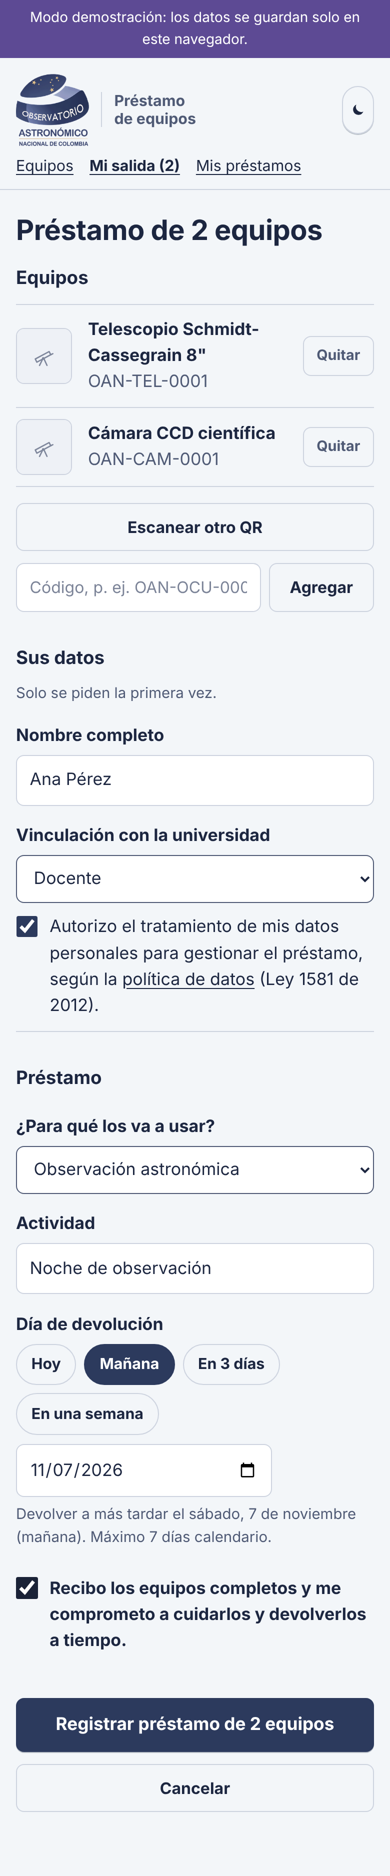
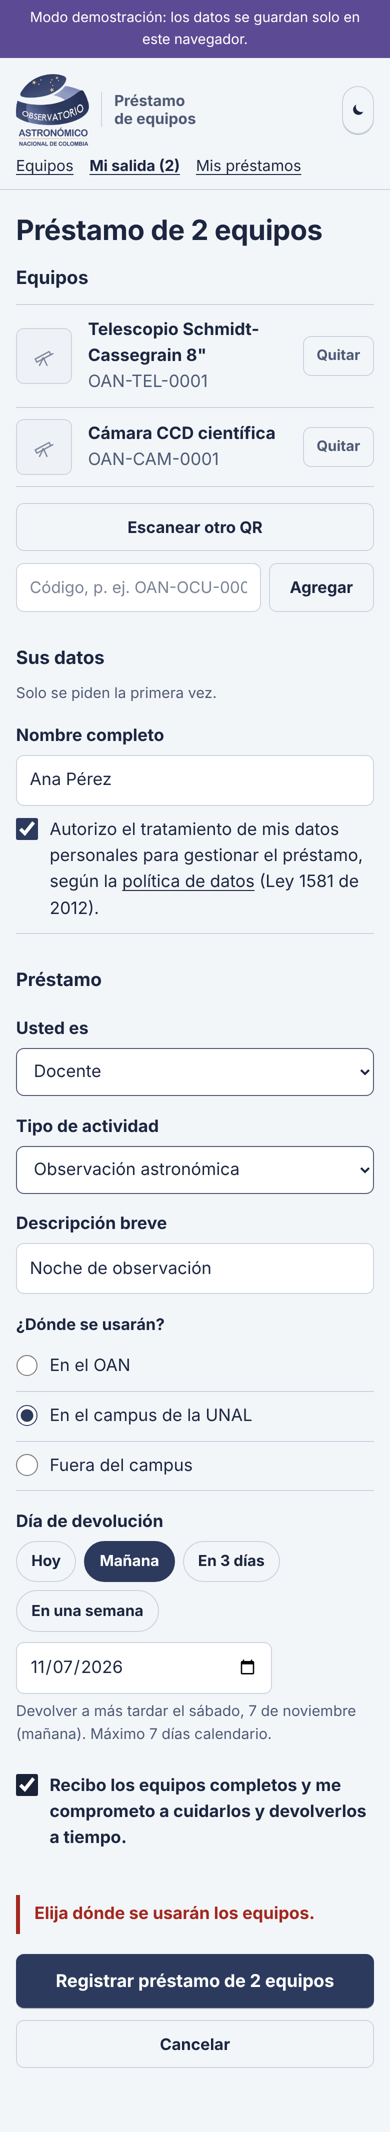
Registrar en cada préstamo la vinculación, el tipo de actividad y el lugar de uso
- Formulario: «Usted es» (vinculación, prellenada con la anterior), «Tipo de
  actividad», descripción breve y «¿Dónde se usarán?» (en el OAN, en el
  campus de la UNAL o fuera del campus), todos obligatorios y sin aprobación
- Los tres datos se guardan en Prestamos y van en el aviso al laboratorio,
  el comprobante, la ficha y el panel
- Pruebas, documentación, esquema y capturas actualizados

Claude-Session: https://claude.ai/code/session_0186gtBQ3T989Q7srTsCQHoa

diff --git a/web/js/app.js b/web/js/app.js
@@ -324,8 +324,9 @@ async function vistaEquipo(id) {
 
 function datosSolicitante(p) {
   return `<dl class="ficha solicitante">
-    <div><dt>Responsable</dt><dd>${esc(p.nombre)}<br><a href="mailto:${esc(p.email)}">${esc(p.email)}</a></dd></div>
-    <div><dt>Para qué</dt><dd>${esc(p.proposito)}<br><span class="tenue">${esc(p.descripcion)}</span></dd></div>
+    <div><dt>Responsable</dt><dd>${esc(p.nombre)}${p.tipo_usuario ? ` · ${esc(p.tipo_usuario)}` : ''}<br><a href="mailto:${esc(p.email)}">${esc(p.email)}</a></dd></div>
+    <div><dt>Actividad</dt><dd>${esc(p.proposito)}<br><span class="tenue">${esc(p.descripcion)}</span></dd></div>
+    ${p.lugar_uso ? `<div><dt>Dónde</dt><dd>${esc(p.lugar_uso)}</dd></div>` : ''}
     ${p.avalista_email ? `<div><dt>Avalista</dt><dd>${esc(p.avalista_email)}</dd></div>` : ''}
     <div><dt>Plazo</dt><dd>Salió el ${fecha(p.fecha_salida)}<br>Devolver a más tardar el ${dia(p.fecha_prevista)}</dd></div>
   </dl>`;
@@ -388,10 +389,6 @@ function vistaSalida() {
       <p class="ayuda">Solo se piden la primera vez.</p>
       <label for="nombre">Nombre completo</label>
       <input id="nombre" name="nombre" autocomplete="name" required>
-      ${externo
-        ? '<input type="hidden" name="tipo" value="Externo">'
-        : `<label for="tipo">Vinculación con la universidad</label>
-           <select id="tipo" name="tipo" required><option value="">Seleccione…</option>${opciones(catalogos.tipos_usuario.filter(t => t !== 'Externo'))}</select>`}
       <label class="casilla"><input type="checkbox" name="acepta_datos" required>
         <span>Autorizo el tratamiento de mis datos personales para gestionar el préstamo, según la <a href="${esc(CONFIG.URL_POLITICA_DATOS)}" target="_blank" rel="noopener">política de datos</a> (Ley 1581 de 2012).</span></label>
     </fieldset>`;
@@ -421,10 +418,16 @@ function vistaSalida() {
       ${perfil}
       <fieldset>
         <legend>Préstamo</legend>
-        <label for="proposito">¿Para qué ${varios ? 'los' : 'lo'} va a usar?</label>
+        ${externo ? '' : `<label for="tipo-usuario">Usted es</label>
+        <select id="tipo-usuario" name="tipo_usuario" required><option value="">Seleccione…</option>${opciones(catalogos.tipos_usuario.filter(t => t !== 'Externo'), u.tipo)}</select>`}
+        <label for="proposito">Tipo de actividad</label>
         <select id="proposito" name="proposito" required><option value="">Seleccione…</option>${opciones(catalogos.propositos)}</select>
-        <label for="descripcion">Actividad</label>
+        <label for="descripcion">Descripción breve</label>
         <input id="descripcion" name="descripcion" maxlength="300" placeholder="Ej.: observación pública de la Luna" required>
+        <fieldset class="grupo-opciones">
+          <legend>¿Dónde ${varios ? 'se usarán' : 'se usará'}?</legend>
+          ${(catalogos.lugares || []).map((l, i) => `<label class="casilla"><input type="radio" name="lugar_uso" value="${esc(l)}" required><span>${esc(l)}</span></label>`).join('')}
+        </fieldset>
         <label for="devolucion">Día de devolución</label>
         <div class="atajos" role="group" aria-label="Elegir rápido el día de devolución">
           ${atajos.map(([t, n]) => `<button type="button" class="chip" data-dias="${n}">${t}</button>`).join('')}
@@ -492,10 +495,11 @@ function vistaSalida() {
   form.addEventListener('submit', ev => {
     ev.preventDefault();
     if (form.nombre && form.nombre.value.trim().length < 3) return aviso(form, 'Escriba su nombre completo.');
-    if (form.tipo && !form.tipo.value) return aviso(form, 'Seleccione su vinculación con la universidad.');
+    if (form.tipo_usuario && !form.tipo_usuario.value) return aviso(form, 'Seleccione su vinculación con la universidad.');
     if (form.acepta_datos && !form.acepta_datos.checked) return aviso(form, 'Debe autorizar el tratamiento de datos para registrar el préstamo.');
     if (!form.proposito.value) return aviso(form, 'Seleccione para qué va a usar los equipos.');
     if (form.descripcion.value.trim().length < 3) return aviso(form, 'Escriba en pocas palabras la actividad.');
+    if (!form.lugar_uso.value) return aviso(form, 'Elija dónde se usarán los equipos.');
     const v = form.fecha_devolucion.value;
     if (!v || v < hoy || v > maximo) return aviso(form, `Elija un día de devolución entre hoy y el ${dia(finDelDia(maximo))}.`);
     if (!form.compromiso.checked) return aviso(form, 'Marque la casilla de compromiso para continuar.');
@@ -503,16 +507,19 @@ function vistaSalida() {
       equipos: equipos.map(e => e.id),
       proposito: form.proposito.value,
       descripcion: form.descripcion.value,
+      lugar_uso: form.lugar_uso.value,
+      tipo_usuario: externo ? 'Externo' : form.tipo_usuario.value,
       fecha_devolucion: v,
       fecha_prevista: finDelDia(v).toISOString(),
       avalista_email: form.avalista_email?.value || ''
     };
-    if (form.nombre) datos.perfil = { nombre: form.nombre.value, tipo: form.tipo.value, acepta_datos: form.acepta_datos.checked };
+    if (form.nombre) datos.perfil = { nombre: form.nombre.value, tipo: datos.tipo_usuario, acepta_datos: form.acepta_datos.checked };
     enviar(form, 'prestar', datos, r => {
       if (datos.perfil) {
-        sesion.usuario = { ...sesion.usuario, registrado: true, nombre: datos.perfil.nombre, tipo: datos.perfil.tipo };
-        almacen.escribir('oan-sesion', sesion);
+        sesion.usuario = { ...sesion.usuario, registrado: true, nombre: datos.perfil.nombre };
       }
+      sesion.usuario = { ...sesion.usuario, tipo: datos.tipo_usuario };
+      almacen.escribir('oan-sesion', sesion);
       salida.vaciar();
       pintarCabecera();
       comprobante(r.prestamos || [r.prestamo], 'prestamo');
@@ -635,8 +642,9 @@ function comprobante(prestamos, tipo) {
         <li><span class="titulo-prestamo">${esc(x.equipo_nombre)}</span>
         <span class="detalle">${esc(x.equipo_id)}${devolucion ? ` · ${esc(x.condicion_devolucion)}` : ''}</span></li>`).join('')}</ul>
       <dl class="ficha">
-        <div><dt>Responsable</dt><dd>${esc(p.nombre)}</dd></div>
-        ${devolucion ? '' : `<div><dt>Para qué</dt><dd>${esc(p.proposito)}<br><span class="tenue">${esc(p.descripcion)}</span></dd></div>
+        <div><dt>Responsable</dt><dd>${esc(p.nombre)}${p.tipo_usuario ? `<br><span class="tenue">${esc(p.tipo_usuario)}</span>` : ''}</dd></div>
+        ${devolucion ? '' : `<div><dt>Actividad</dt><dd>${esc(p.proposito)}<br><span class="tenue">${esc(p.descripcion)}</span></dd></div>
+        ${p.lugar_uso ? `<div><dt>Dónde</dt><dd>${esc(p.lugar_uso)}</dd></div>` : ''}
         <div><dt>Devolver a más tardar</dt><dd><strong>${dia(p.fecha_prevista)}</strong></dd></div>`}
         <div><dt>Número de salida</dt><dd>${esc(p.lote_id || p.id)}</dd></div>
       </dl>
@@ -678,7 +686,7 @@ function bloqueSalida({ lote, items }, propio, extra = () => '') {
   const p = items[0];
   return `<section class="salida">
     <p class="salida-titulo"><strong>${propio ? esc(p.proposito) : esc(p.nombre)}</strong>${propio ? '' : ` · ${esc(p.proposito)}`}<br>
-      <span class="tenue">${esc(p.descripcion)} · devolver a más tardar el ${dia(p.fecha_prevista)}</span></p>
+      <span class="tenue">${esc(p.descripcion)}${p.lugar_uso ? ` · ${esc(p.lugar_uso)}` : ''}${!propio && p.tipo_usuario ? ` · ${esc(p.tipo_usuario)}` : ''} · devolver a más tardar el ${dia(p.fecha_prevista)}</span></p>
     ${listaPrestamos(items, extra)}
     ${propio ? `<div class="acciones compactas">
       <button class="principal" data-devolver-lote="${esc(lote)}">${items.length > 1 ? `Devolver ${items.length} equipos` : 'Devolver'}</button>

diff --git a/apps-script/pruebas/backend.test.js b/apps-script/pruebas/backend.test.js
@@ -9,7 +9,7 @@ const { crearEntorno } = require('./simulador');
 /** Día calendario en Colombia, n días después de hoy (AAAA-MM-DD). */
 const dia = n => new Date(Date.now() - 5 * 36e5 + n * 864e5).toISOString().slice(0, 10);
 const PERFIL = { nombre: 'Ana Pérez', tipo: 'Estudiante de pregrado', acepta_datos: true };
-const SOLICITUD = { proposito: 'Práctica de laboratorio', descripcion: 'Práctica de fotometría' };
+const SOLICITUD = { proposito: 'Práctica de laboratorio', descripcion: 'Práctica de fotometría', lugar_uso: 'En el OAN' };
 
 function preparar() {
   const e = crearEntorno();
@@ -286,4 +286,22 @@ test('acciones de aprobación ya no existen', () => {
   for (const accion of ['aprobar', 'verificar', 'cancelar']) {
     assert.match(e.llamar({ accion }).error, /Acción no válida/);
   }
+});
+
+test('cada préstamo registra vinculación, tipo de actividad y lugar de uso', () => {
+  const e = preparar();
+  const { token } = e.iniciarSesion('ana@unal.edu.co');
+  assert.match(prestar(e, token, ['OAN-TEL-0001'], { lugar_uso: '' }).error, /dónde se usarán/);
+  assert.equal(prestar(e, token, ['OAN-TEL-0001'], { lugar_uso: 'Fuera del campus' }).ok, true);
+  let p = e.leer('Prestamos')[0];
+  assert.equal(p.lugar_uso, 'Fuera del campus');
+  assert.equal(p.tipo_usuario, 'Estudiante de pregrado');
+  // En el siguiente préstamo la persona actualiza su vinculación
+  const r = e.llamar({ accion: 'prestar', token, equipos: ['OAN-CAM-0001'], ...SOLICITUD, lugar_uso: 'En el campus de la UNAL',
+    tipo_usuario: 'Estudiante de posgrado', fecha_devolucion: dia(1) });
+  assert.equal(r.ok, true, r.error);
+  assert.equal(r.prestamo.tipo_usuario, 'Estudiante de posgrado');
+  assert.equal(e.leer('Usuarios')[0].tipo, 'Estudiante de posgrado');
+  assert.ok(e.correos.some(c => c.to === 'tecnico@unal.edu.co' && c.htmlBody.includes('En el campus de la UNAL')));
+  assert.equal(e.llamar({ accion: 'prestar', token, equipos: ['OAN-MON-0001'], ...SOLICITUD, tipo_usuario: 'Externo', fecha_devolucion: dia(1) }).ok, false);
 });

diff --git a/web/js/demo.js b/web/js/demo.js
@@ -180,7 +180,12 @@ const ACCIONES = {
     const eqs = ids(d.equipos || d.equipo_id).map(id => equipo(db, id));
     const ocupados = eqs.filter(e => e.estado !== 'disponible');
     if (ocupados.length) throw new ErrorDemo(`No están disponibles: ${ocupados.map(e => `${e.id} (${e.estado})`).join(', ')}. Quítelos de la lista.`, 409);
-    const proposito = enLista(d.proposito, CATALOGOS.propositos, 'para qué los va a usar');
+    if (d.tipo_usuario && usuario.tipo !== 'Externo' && d.tipo_usuario !== usuario.tipo) {
+      if (d.tipo_usuario === 'Externo' || !CATALOGOS.tipos_usuario.includes(d.tipo_usuario)) throw new ErrorDemo('Seleccione su vinculación con la universidad.');
+      usuario.tipo = d.tipo_usuario;
+    }
+    const proposito = enLista(d.proposito, CATALOGOS.propositos, 'el tipo de actividad');
+    const lugar = enLista(d.lugar_uso, CATALOGOS.lugares, 'dónde se usarán los equipos');
     const descripcion = texto(d.descripcion, 300);
     if (descripcion.length < 3) throw new ErrorDemo('Escriba en pocas palabras la actividad.');
     const diaDev = String(d.fecha_devolucion || '');
@@ -197,7 +202,7 @@ const ACCIONES = {
     const creados = eqs.map(eq => {
       const p = {
         id: nuevoId('P'), lote_id: lote, equipo_id: eq.id, email: s.email, nombre: usuario.nombre, tipo_usuario: usuario.tipo,
-        proposito, descripcion, avalista_email: avalista, fecha_solicitud: ahora, fecha_salida: ahora,
+        proposito, descripcion, lugar_uso: lugar, avalista_email: avalista, fecha_solicitud: ahora, fecha_salida: ahora,
         fecha_prevista: new Date(diaDev + 'T23:59:00-05:00').toISOString(), fecha_devolucion: '', estado: 'activo'
       };
       db.prestamos.push(p);

diff --git a/web/js/catalogos.js b/web/js/catalogos.js
@@ -3,6 +3,7 @@
 export const CATALOGOS = {
   propositos: ['Docencia (clase)', 'Práctica de laboratorio', 'Investigación / tesis',
     'Observación astronómica', 'Divulgación / evento público', 'Mantenimiento o calibración', 'Otro'],
+  lugares: ['En el OAN', 'En el campus de la UNAL', 'Fuera del campus'],
   tipos_usuario: ['Estudiante de pregrado', 'Estudiante de posgrado', 'Docente', 'Investigador',
     'Personal técnico o administrativo', 'Externo'],
   condiciones: ['Bueno', 'Con detalles menores', 'Dañado', 'Incompleto'],

diff --git a/web/css/estilos.css b/web/css/estilos.css
@@ -650,3 +650,7 @@ button:disabled { opacity: 0.6; cursor: progress; }
 .atajos { display: flex; flex-wrap: wrap; gap: 0.5rem; margin: 0 0 0.6rem; }
 .atajos .chip { min-height: 2.6rem; }
 input[type=date] { max-width: 16rem; }
+
+/* Grupo de opciones dentro de un formulario (¿Dónde se usará?) */
+.grupo-opciones { margin: 1.1rem 0 0; }
+.grupo-opciones legend { font-size: 1rem; margin-bottom: 0.35rem; }

diff --git a/docs/05-modelo-de-datos.md b/docs/05-modelo-de-datos.md
@@ -96,7 +96,7 @@ erDiagram
 | Columna | Notas |
 | --- | --- |
 | `email` | Identificador; se verifica con el código enviado |
-| `nombre`, `tipo` | Los escribe la persona la primera vez. `tipo`: estudiante de pregrado o posgrado, docente, investigador, personal técnico o administrativo, externo |
+| `nombre`, `tipo` | El nombre se escribe la primera vez; la vinculación se confirma en cada préstamo y se actualiza si cambia. `tipo`: estudiante de pregrado o posgrado, docente, investigador, personal técnico o administrativo, externo |
 | `rol` | `usuario` por defecto. Escribir `admin` para dar acceso a todos los laboratorios |
 | `activo` | Escribir `NO` para bloquear a alguien |
 | `acepta_datos` | Fecha en que autorizó el tratamiento de datos |
@@ -108,9 +108,10 @@ erDiagram
 | --- | --- |
 | `id` | `P-251105-3F9A1C` |
 | `equipo_id`, `email` | Quién y qué |
-| `nombre`, `tipo_usuario` | Copia al momento del préstamo, para que el historial no cambie si la persona edita su perfil |
-| `proposito` | Docencia (clase), Práctica de laboratorio, Investigación / tesis, Observación astronómica, Divulgación / evento público, Mantenimiento o calibración, Otro |
-| `descripcion` | La actividad, en pocas palabras |
+| `nombre`, `tipo_usuario` | Nombre y vinculación (docente, estudiante…) al momento del préstamo |
+| `proposito` | Tipo de actividad: Docencia (clase), Práctica de laboratorio, Investigación / tesis, Observación astronómica, Divulgación / evento público, Mantenimiento o calibración, Otro |
+| `descripcion` | Descripción breve de la actividad |
+| `lugar_uso` | En el OAN, En el campus de la UNAL o Fuera del campus |
 | `avalista_email` | Solo para usuarios externos |
 | `fecha_solicitud` | Cuando se llenó el formulario |
 | `fecha_salida` | **Cuando el equipo salió** (al registrar el préstamo) |
@@ -134,5 +135,5 @@ Cada inicio de sesión, préstamo, devolución y reporte queda con `fecha`, `ema
 
 - Un equipo tiene **como máximo un préstamo activo**. En la hoja lo garantiza el bloqueo de Apps Script; en PostgreSQL, un índice único parcial.
 - Los textos escritos por los usuarios que empiezan por `=`, `+`, `-` o `@` se guardan con un apóstrofo delante, para que la hoja no los interprete como fórmulas.
-- Las hojas creadas con versiones anteriores pueden tener columnas que ya no se usan (`nivel_control`, `max_dias`, `dependencia`, `telefono`, `curso_proyecto`, `lugar_uso`, `condicion_salida`, `aprobado_por`, `motivo_rechazo`, `verificado_por`, `fecha_verificacion`). Se pueden dejar o borrar; el sistema las ignora.
+- Las hojas creadas con versiones anteriores pueden tener columnas que ya no se usan (`nivel_control`, `max_dias`, `dependencia`, `telefono`, `curso_proyecto`, `condicion_salida`, `aprobado_por`, `motivo_rechazo`, `verificado_por`, `fecha_verificacion`). Se pueden dejar o borrar; el sistema las ignora.
 - Se pueden agregar columnas propias al final de cualquier pestaña (por ejemplo `placa_inventario` en `Equipos`); el sistema las respeta.

diff --git a/docs/07-reglas-y-notificaciones.md b/docs/07-reglas-y-notificaciones.md
@@ -18,8 +18,8 @@
 
 | Cuándo | Datos |
 | --- | --- |
-| Solo la primera vez | Nombre completo, vinculación con la universidad (estudiante, docente, investigador, personal), autorización de datos |
-| En cada préstamo | Para qué (lista), la actividad en pocas palabras y el día de devolución; avalista solo si es externo |
+| Solo la primera vez | Nombre completo y autorización de datos |
+| En cada préstamo | **Quién es** (docente, estudiante de pregrado o posgrado, investigador, personal; viene marcado con lo de la vez anterior), **tipo de actividad** (lista), una descripción breve, **dónde se usará** (en el OAN, en el campus de la UNAL o fuera del campus) y el día de devolución; avalista solo si es externo |
 | En cada devolución | El estado de cada equipo (Bueno por defecto); la descripción solo si está dañado o incompleto |
 
 No hay campos opcionales.
@@ -29,7 +29,7 @@ No hay campos opcionales.
 | Cuándo | A quién | Contenido |
 | --- | --- | --- |
 | Inicio de sesión | Usuario | Código de 6 dígitos, válido 10 minutos |
-| Préstamo | **Responsables del laboratorio** (y avalista, si es externo) | Quién, para qué, lista de equipos y día de devolución |
+| Préstamo | **Responsables del laboratorio** (y avalista, si es externo) | Quién y su vinculación, tipo de actividad, dónde se usará, lista de equipos y día de devolución |
 | Préstamo | Usuario | Comprobante (uno por salida) |
 | Devolución | **Responsables del laboratorio** | Lista de equipos y su estado; resaltado si hay daño o faltante |
 | Devolución | Usuario | Comprobante |
@@ -61,4 +61,4 @@ Todos están al inicio de [`apps-script/Code.gs`](../apps-script/Code.gs), en `C
 | `HORAS_RECORDATORIO` | 24 |
 | `CORREO_COPIA_ALERTAS` | vacío (opcional: un buzón del OAN que reciba copia de todos los avisos) |
 
-Las listas de propósitos, tipos de usuario, condiciones y tipos de daño están en `CATALOGOS`. Si se cambian, hay que cambiarlas también en [`web/js/catalogos.js`](../web/js/catalogos.js) para el modo demostración (con el servidor conectado, la web usa las del servidor).
+Las listas de tipos de actividad (`propositos`), lugares de uso (`lugares`), tipos de usuario, condiciones y tipos de daño están en `CATALOGOS`. Si se cambian, hay que cambiarlas también en [`web/js/catalogos.js`](../web/js/catalogos.js) para el modo demostración (con el servidor conectado, la web usa las del servidor).

diff --git a/docs/06-pantallas.md b/docs/06-pantallas.md
@@ -23,8 +23,8 @@ Lo más grande es el código del equipo, para que la persona confirme de un vist
 <img src="img/salida-varios-equipos.png" width="300" alt="Formulario de préstamo con tres equipos en la lista, botón para escanear otro QR y datos de la actividad">
 
 - **Equipos**: la lista de lo que sale, con «Quitar» en cada uno, el botón **Escanear otro QR** (abre la cámara dentro de la página y lee varios QR seguidos) y un campo para escribir un código.
-- **Sus datos** solo aparece la primera vez: nombre, vinculación y la autorización de tratamiento de datos.
-- **Préstamo**, una sola vez para todos los equipos: para qué (lista), la actividad en pocas palabras y el **día de devolución**, con atajos «Hoy», «Mañana», «En 3 días» y «En una semana» (máximo 7 días calendario).
+- **Sus datos** solo aparece la primera vez: nombre y la autorización de tratamiento de datos.
+- **Préstamo**, una sola vez para todos los equipos: **quién es** (vinculación, ya marcada con la de la vez anterior), **tipo de actividad** (lista), una descripción breve, **dónde se usarán** (en el OAN, en el campus de la UNAL o fuera del campus) y el **día de devolución**, con atajos «Hoy», «Mañana», «En 3 días» y «En una semana» (máximo 7 días calendario).
 - La casilla de compromiso. No hay campos opcionales ni aprobación: al registrar, el préstamo queda activo.
 
 ## Comprobante

diff --git a/docs/guia-rapida.md b/docs/guia-rapida.md
@@ -7,7 +7,7 @@
 1. Escanee el QR del equipo con la cámara del celular.
 2. Toque **Prestar este equipo**.
 3. La primera vez: escriba su correo, copie el código que le llega y complete sus datos.
-4. Diga para qué lo va a usar, la actividad y qué día lo devuelve (hasta 7 días calendario), y toque **Registrar préstamo**. Queda activo de inmediato, sin aprobación.
+4. Indique quién es (docente, estudiante…), el tipo de actividad, una descripción breve, dónde lo usará (en el OAN, en el campus de la UNAL o fuera) y qué día lo devuelve (hasta 7 días calendario), y toque **Registrar préstamo**. Queda activo de inmediato, sin aprobación.
 5. Le llega el comprobante por correo y el laboratorio recibe el aviso.
 
 **Sacar varios equipos para una misma actividad**

diff --git a/docs/03-flujos.md b/docs/03-flujos.md
@@ -11,7 +11,7 @@ flowchart TD
     C -- Disponible --> D{¿Tiene sesión<br/>en este celular?}
     D -- No --> E[Escribe su correo y<br/>el código que le llega]
     E --> F
-    D -- Sí --> F[Formulario:<br/>equipos, para qué,<br/>actividad, día de devolución]
+    D -- Sí --> F[Formulario:<br/>equipos, quién es, tipo de actividad,<br/>dónde se usará, día de devolución]
     F --> G[Préstamo activo<br/>se guarda la hora de salida]
     G --> H([Comprobante en pantalla<br/>y aviso al laboratorio])
 
